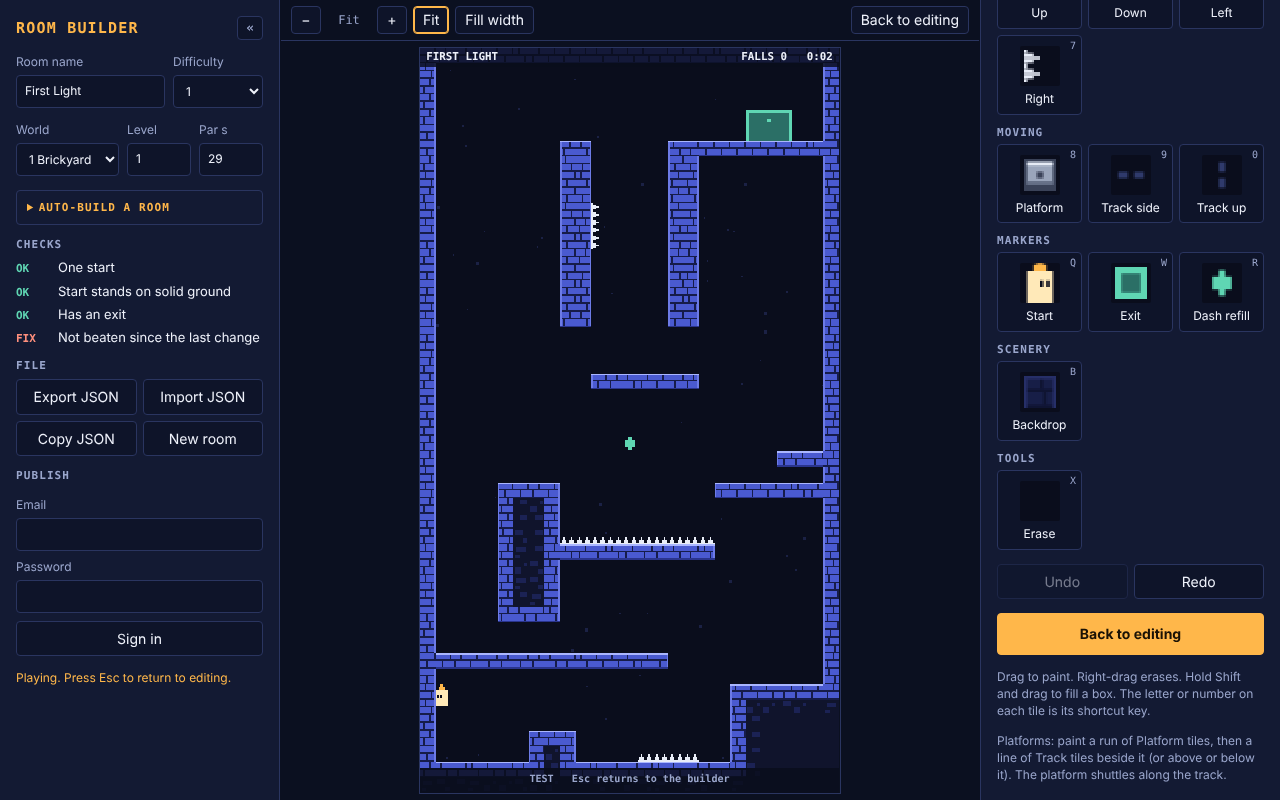
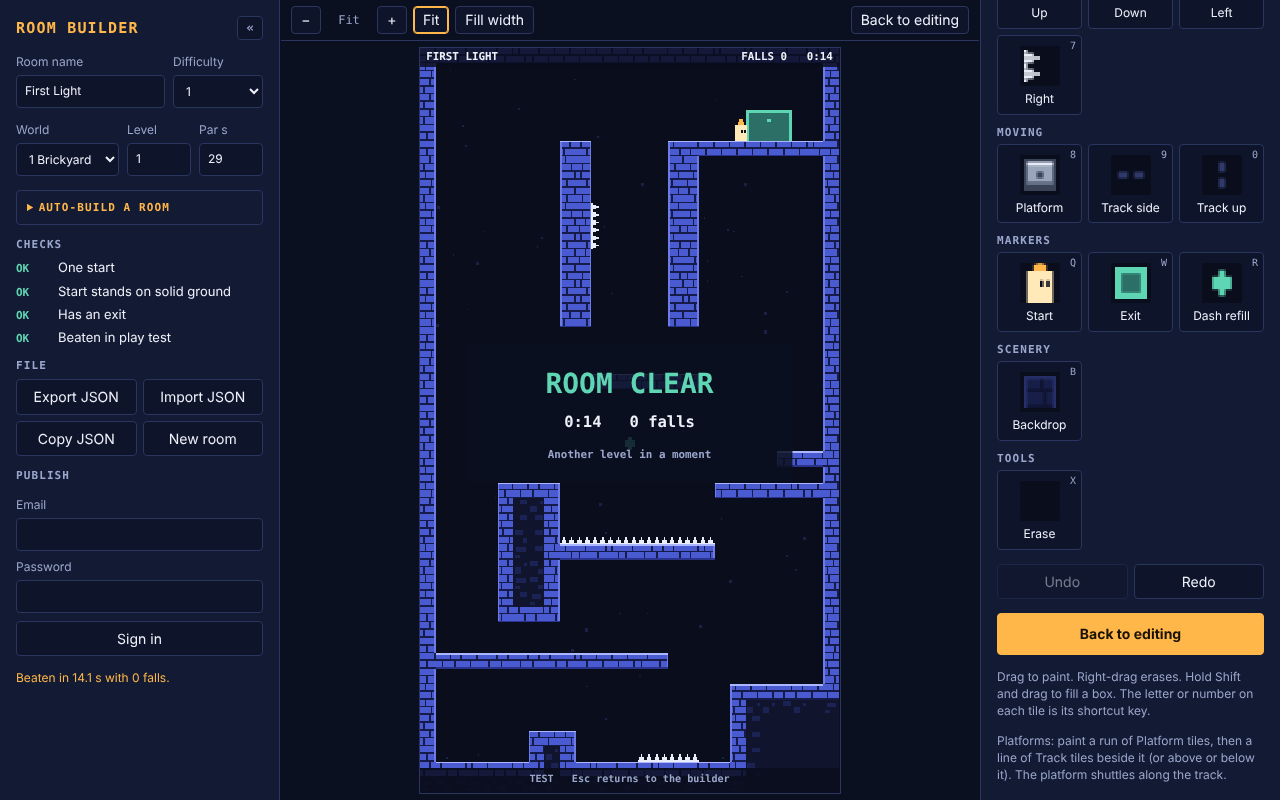
Keep the builder's demo check on the scripted first-room run
Claude-Session: https://claude.ai/code/session_01NZkKt2otoYDRNuWNpVBUzY

diff --git a/index.html b/index.html
@@ -1383,7 +1383,7 @@
       for (var i = 0; i < 40; i++) step(none);
       return { steps: n, count: run.count, room: room.name, falls: run.deaths, x: pl.x, y: pl.y, pool: pool.length };
     }, load: function (data) { testMode = true; scene = 'play'; buildRoom(data); resetRun(); },
-    demoRun: function (n) { startDemo(); for (var i = 0; i < n && !run.won; i++) step(demoInput()); return { steps: i, won: run.won, deaths: run.deaths, stage: demo.stage }; }
+    demoRun: function (n) { startDemo(); demo.room = starters[0]; demo.rec = null; resetRun(); for (var i = 0; i < n && !run.won; i++) step(demoInput()); return { steps: i, won: run.won, deaths: run.deaths, stage: demo.stage }; }
   };
 })();
 </script>

diff --git a/src/template.html b/src/template.html
@@ -1265,7 +1265,7 @@
       for (var i = 0; i < 40; i++) step(none);
       return { steps: n, count: run.count, room: room.name, falls: run.deaths, x: pl.x, y: pl.y, pool: pool.length };
     }, load: function (data) { testMode = true; scene = 'play'; buildRoom(data); resetRun(); },
-    demoRun: function (n) { startDemo(); for (var i = 0; i < n && !run.won; i++) step(demoInput()); return { steps: i, won: run.won, deaths: run.deaths, stage: demo.stage }; }
+    demoRun: function (n) { startDemo(); demo.room = starters[0]; demo.rec = null; resetRun(); for (var i = 0; i < n && !run.won; i++) step(demoInput()); return { steps: i, won: run.won, deaths: run.deaths, stage: demo.stage }; }
   };
 })();
 </script>
